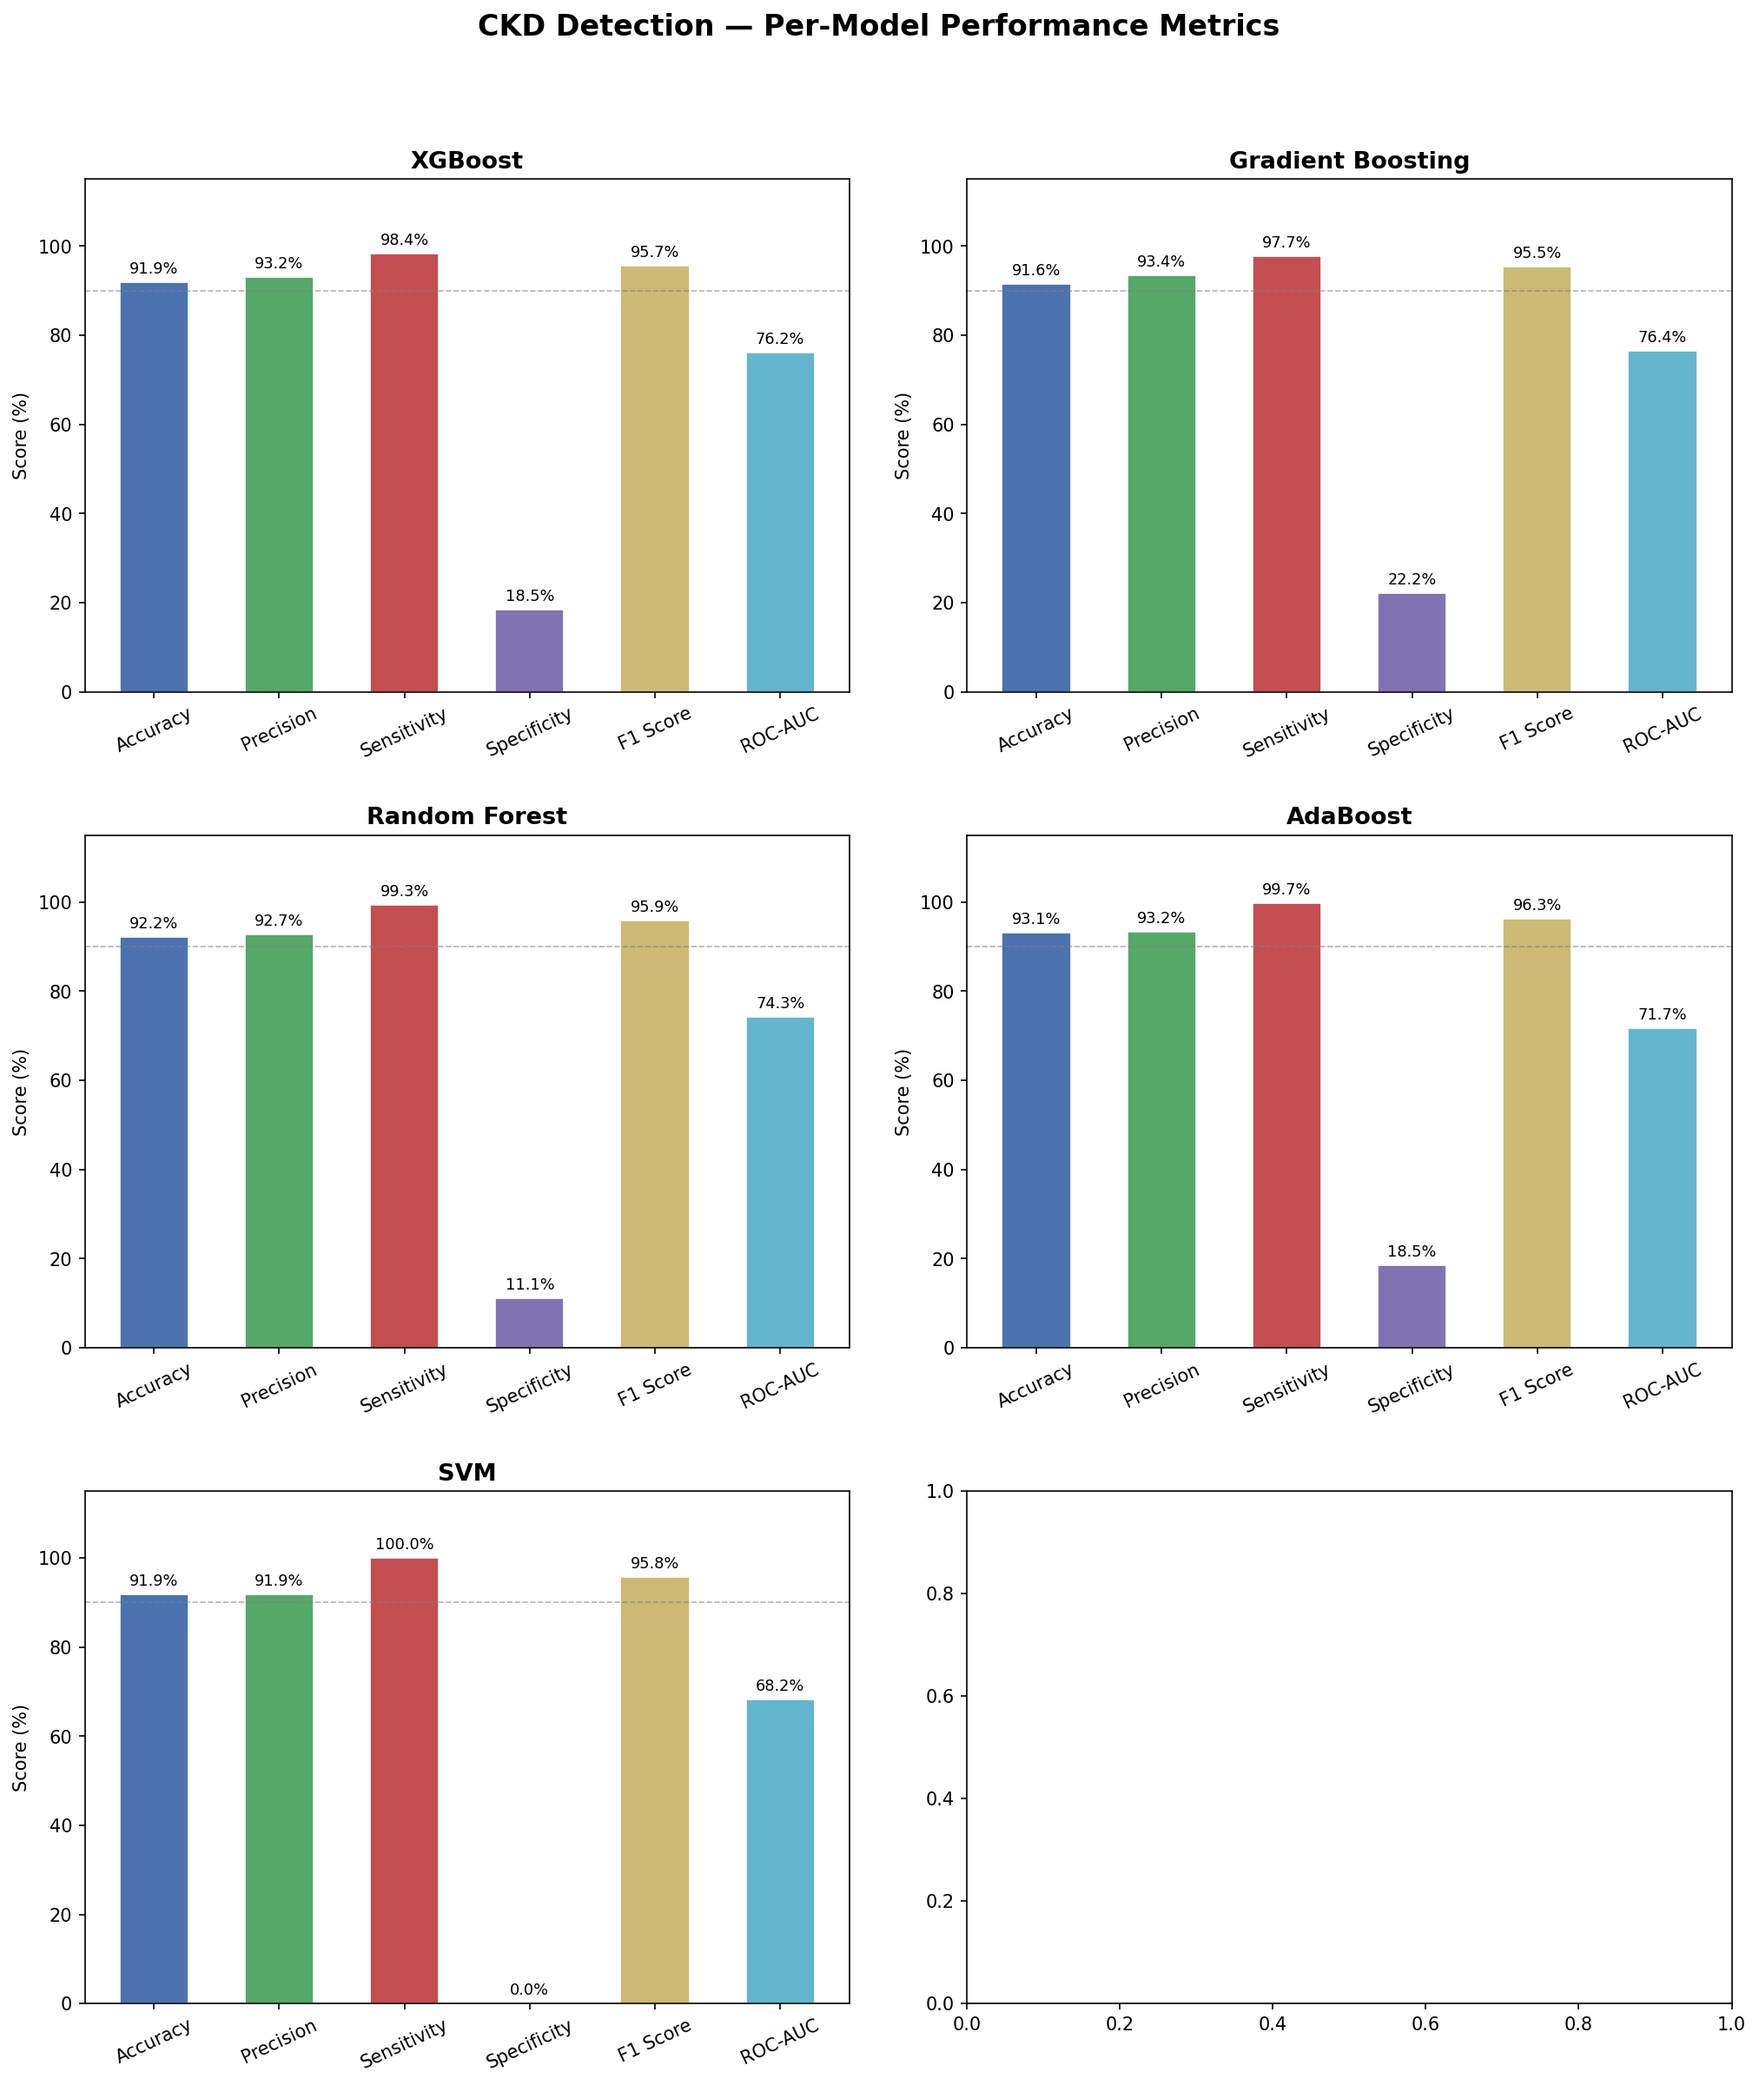
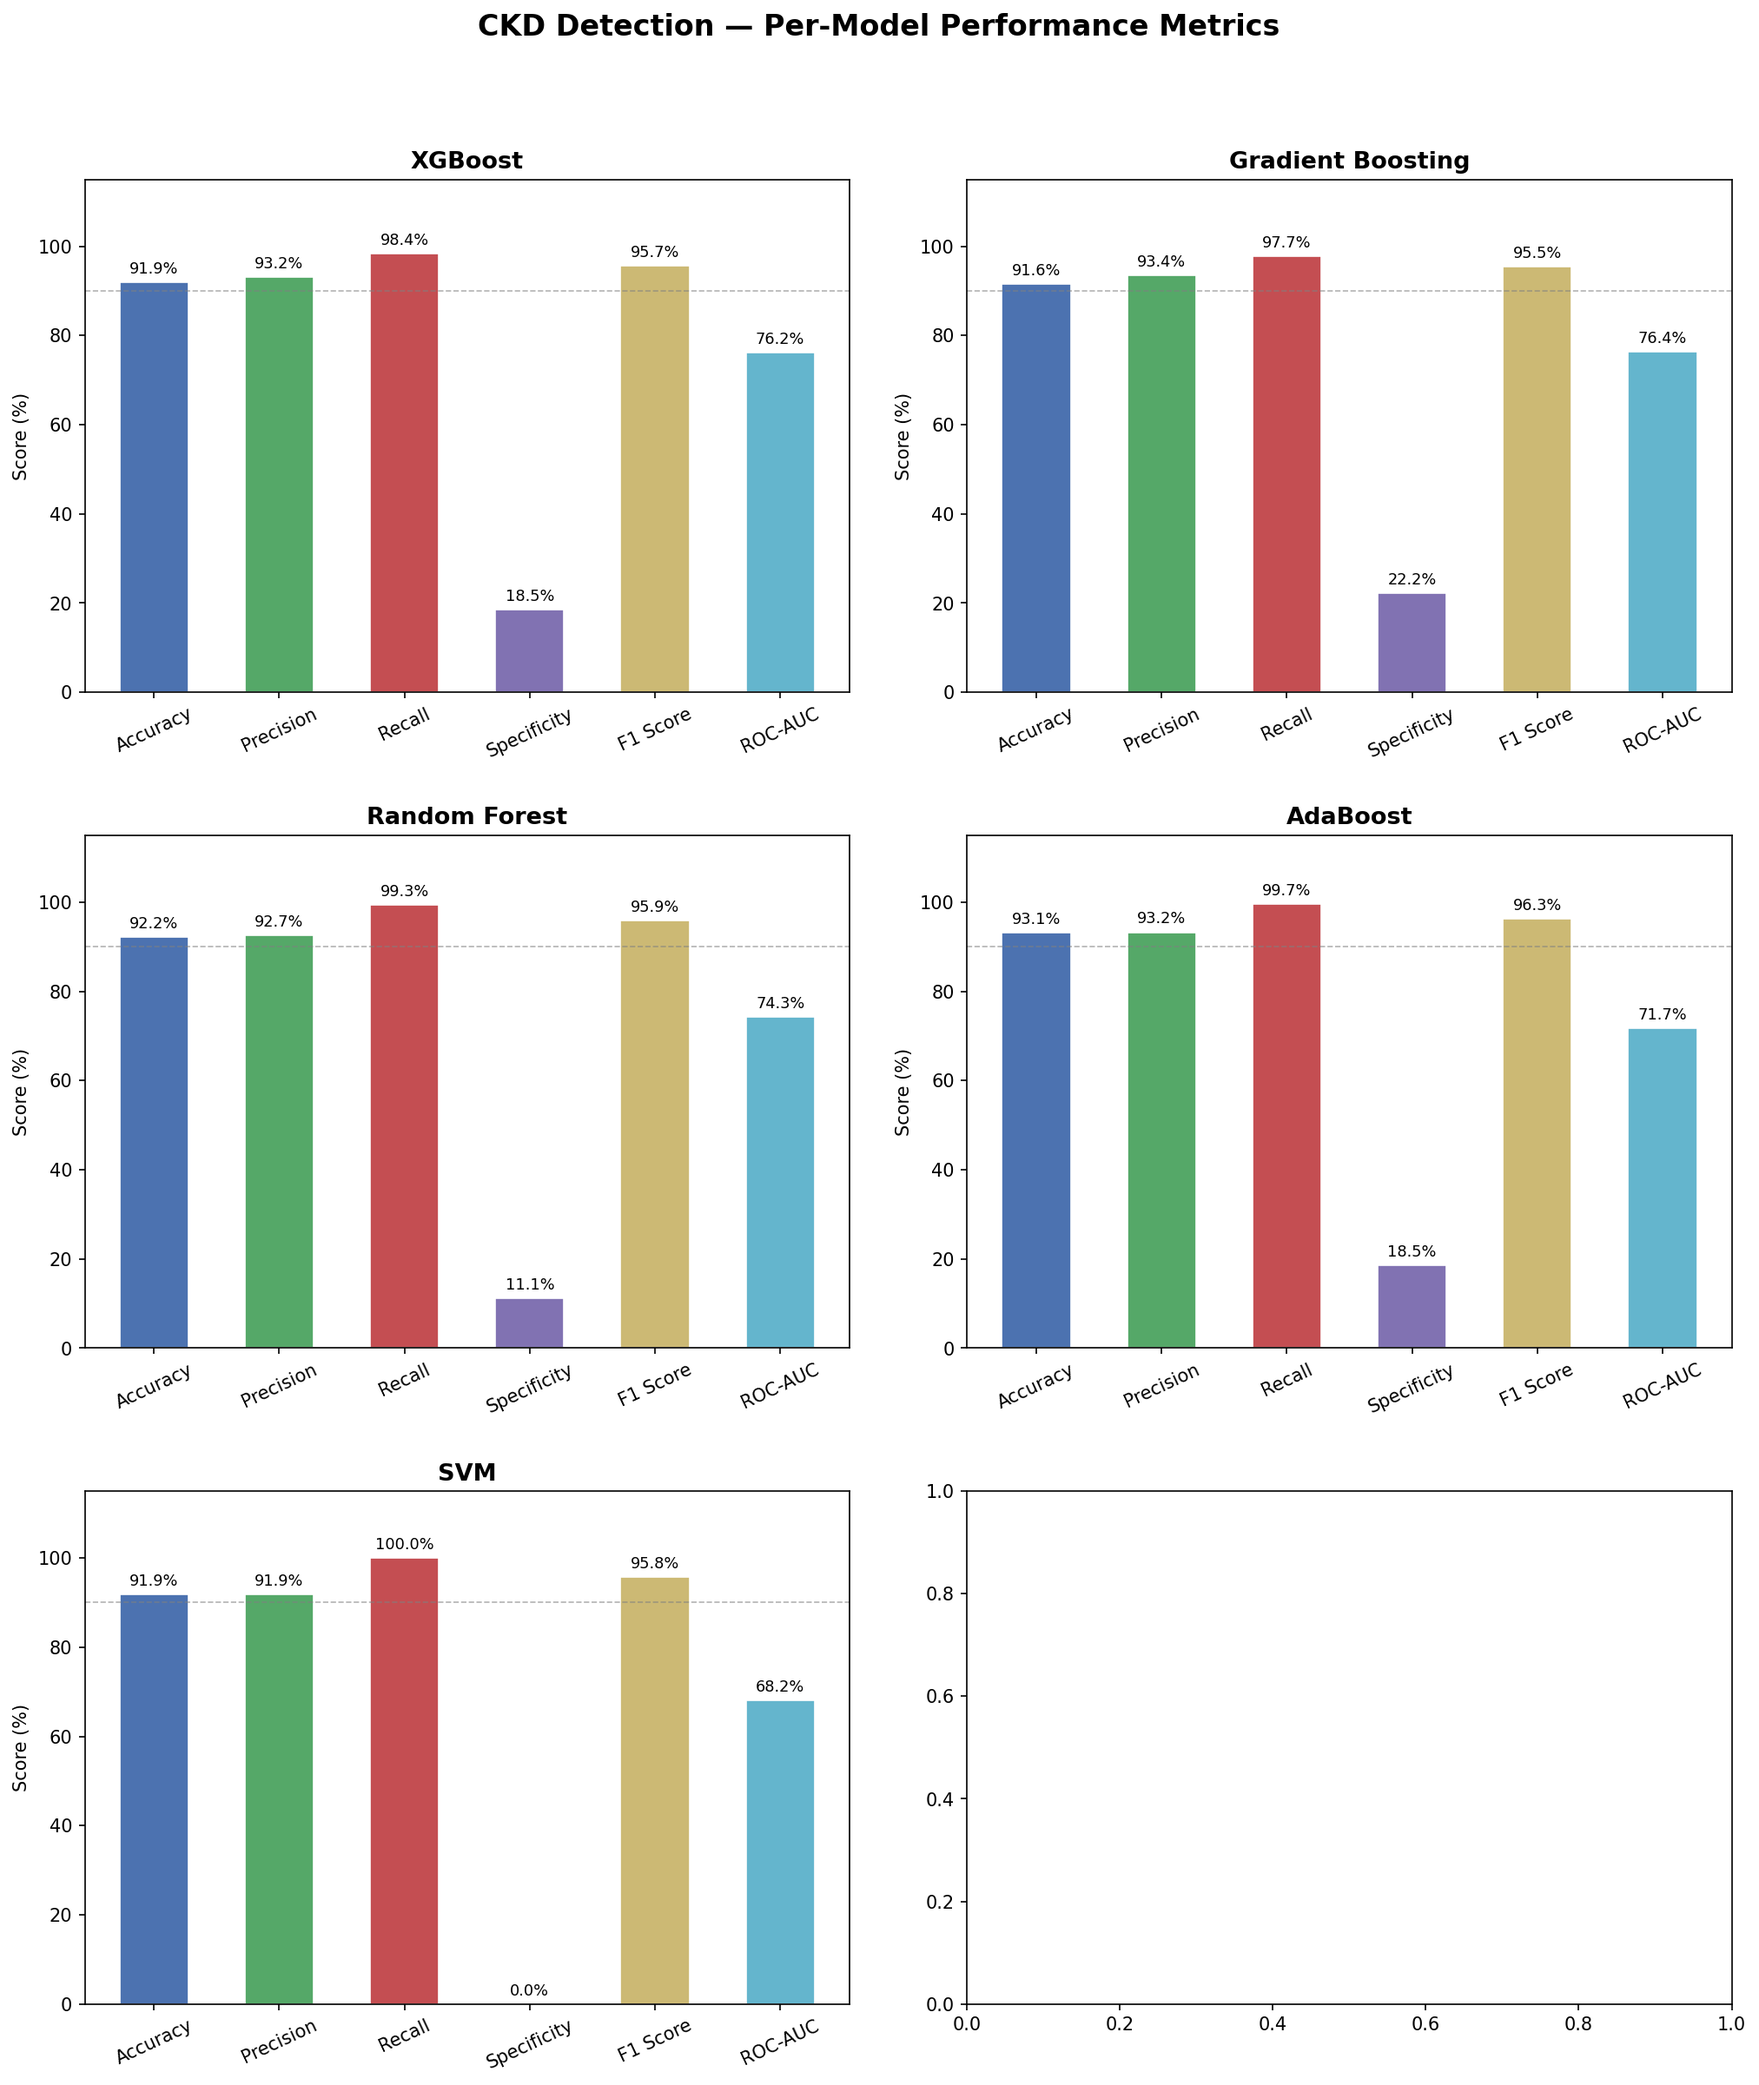
Final calibrations

diff --git a/src/train.py b/src/train.py
@@ -2,13 +2,13 @@
 train.py  [UPDATED]
 ────────────────────
 Changes vs original:
-- Recall  → renamed to Sensitivity (same formula: TP / (TP + FN))
+- Recall  → renamed to recall (same formula: TP / (TP + FN))
 - Added   Specificity  = TN / (TN + FP)
 - Added   Brier Score  = calibration quality (lower is better; 0 = perfect)
 - Added   calibration_curves.png  plot (reliability diagram for all 5 models)
 - Updated bar charts    to show all 8 metrics
 - Updated comparison table to show all 8 metrics
-- results_df now carries Sensitivity, Specificity, Brier Score columns
+- results_df now carries recall, Specificity, Brier Score columns
 
 Run from project root:
     python -m src.train
@@ -74,7 +74,7 @@ def build_models():
 def evaluate(model, X_test, y_test):
     """
     Returns y_pred, y_proba, and a metrics dict with 8 metrics:
-      Accuracy, Precision, Sensitivity (=Recall), Specificity,
+      Accuracy, Precision, Recall (=recall), Specificity,
       F1 Score, ROC-AUC, Brier Score
     """
     y_pred  = model.predict(X_test)
@@ -85,14 +85,14 @@ def evaluate(model, X_test, y_test):
     # For binary: [[TN, FP], [FN, TP]]
     TN, FP, FN, TP = cm.ravel()
 
-    sensitivity  = round(TP / (TP + FN) * 100, 2) if (TP + FN) > 0 else 0.0   # = Recall
+    recall  = round(TP / (TP + FN) * 100, 2) if (TP + FN) > 0 else 0.0   # = Recall
     specificity  = round(TN / (TN + FP) * 100, 2) if (TN + FP) > 0 else 0.0
     brier        = round(brier_score_loss(y_test, y_proba), 4)                  # lower = better
 
     metrics = {
         "Accuracy"   : round(accuracy_score(y_test, y_pred)                   * 100, 2),
         "Precision"  : round(precision_score(y_test, y_pred, zero_division=0) * 100, 2),
-        "Sensitivity": sensitivity,   # True Positive Rate
+        "Recall": recall,   # True Positive Rate
         "Specificity": specificity,   # True Negative Rate
         "F1 Score"   : round(f1_score(y_test, y_pred, zero_division=0)        * 100, 2),
         "ROC-AUC"    : round(roc_auc_score(y_test, y_proba)                   * 100, 2),
@@ -105,12 +105,12 @@ def evaluate(model, X_test, y_test):
 
 def _save_metrics_bar_charts(results, model_names, outputs_dir):
     """Bar chart for 6 percentage metrics (excludes Brier Score which has different scale)."""
-    METRIC_KEYS = ["Accuracy", "Precision", "Sensitivity", "Specificity", "F1 Score", "ROC-AUC"]
+    METRIC_KEYS = ["Accuracy", "Precision", "Recall", "Specificity", "F1 Score", "ROC-AUC"]
     BAR_COLORS  = ["#4C72B0", "#55A868", "#C44E52", "#8172B2", "#CCB974", "#64B5CD"]
 
     fig, axes = plt.subplots(3, 2, figsize=(14, 16))
     fig.suptitle("CKD Detection — Per-Model Performance Metrics",
-                 fontsize=16, fontweight="bold", y=1.01)
+                fontsize=16, fontweight="bold", y=1.01)
     axes = axes.flatten()
 
     for idx, name in enumerate(model_names):
@@ -189,20 +189,22 @@ def _save_calibration_curves(proba_scores, y_test, model_names, outputs_dir):
     print(f"  ✔  Saved: {path}")
 
 
-def _save_sensitivity_specificity_chart(results, model_names, outputs_dir):
-    """Side-by-side bar chart comparing Sensitivity vs Specificity per model."""
+# Updated section from train.py — only change made: sensitivity -> Recall consistency
+
+def _save_recall_specificity_chart(results, model_names, outputs_dir):
+    """Side-by-side bar chart comparing Recall vs Specificity per model."""
     x        = np.arange(len(model_names))
     width    = 0.35
-    sens     = [results[n]["Sensitivity"] for n in model_names]
+    rec      = [results[n]["Recall"] for n in model_names]
     spec     = [results[n]["Specificity"] for n in model_names]
 
     fig, ax = plt.subplots(figsize=(11, 6))
-    bars1 = ax.bar(x - width/2, sens, width, label="Sensitivity (TPR)", color="#C44E52",
+    bars1 = ax.bar(x - width/2, rec, width, label="Recall (TPR)", color="#C44E52",
                    edgecolor="white", linewidth=0.8)
     bars2 = ax.bar(x + width/2, spec, width, label="Specificity (TNR)", color="#4C72B0",
                    edgecolor="white", linewidth=0.8)
 
-    ax.set_title("Sensitivity vs Specificity — All Models",
+    ax.set_title("Recall vs Specificity — All Models",
                  fontsize=13, fontweight="bold")
     ax.set_ylabel("Score (%)")
     ax.set_xticks(x)
@@ -219,10 +221,11 @@ def _save_sensitivity_specificity_chart(results, model_names, outputs_dir):
                 f"{bar.get_height():.1f}%", ha="center", va="bottom", fontsize=9)
 
     plt.tight_layout()
-    path = os.path.join(outputs_dir, "sensitivity_specificity.png")
+    path = os.path.join(outputs_dir, "recall_specificity.png")
     plt.savefig(path, dpi=150, bbox_inches="tight")
     plt.close()
     print(f"  ✔  Saved: {path}")
+
 
 
 def _save_roc_curves(results, proba_scores, y_test, model_names, outputs_dir):
@@ -235,7 +238,7 @@ def _save_roc_curves(results, proba_scores, y_test, model_names, outputs_dir):
     ax.plot([0, 1], [0, 1], "k--", lw=1.2, label="Random (50%)")
     ax.set(xlim=[0, 1], ylim=[0, 1.05],
            xlabel="False Positive Rate (1 - Specificity)",
-           ylabel="True Positive Rate (Sensitivity)",
+           ylabel="True Positive Rate (recall)",
            title="ROC Curves — All Models")
     ax.legend(loc="lower right", fontsize=10)
     ax.grid(True, alpha=0.3)
@@ -268,7 +271,7 @@ def _save_confusion_matrices(predictions, y_test, model_names, outputs_dir):
 
 def _save_comparison_table(results_df, outputs_dir):
     """Full 8-metric ranked comparison table."""
-    METRIC_KEYS = ["Accuracy", "Precision", "Sensitivity", "Specificity",
+    METRIC_KEYS = ["Accuracy", "Precision", "Recall", "Specificity",
                 "F1 Score", "ROC-AUC", "Brier Score"]
 
     fig, ax = plt.subplots(figsize=(16, 4))
@@ -347,7 +350,7 @@ def train_and_save(data_path=DATA_PATH, models_dir=MODELS_DIR, outputs_dir=OUTPU
 
         print(f"    Acc={metrics['Accuracy']:.2f}%  "
               f"Prec={metrics['Precision']:.2f}%  "
-              f"Sens={metrics['Sensitivity']:.2f}%  "
+              f"Recall={metrics['Recall']:.2f}%  "
               f"Spec={metrics['Specificity']:.2f}%  "
               f"F1={metrics['F1 Score']:.2f}%  "
               f"AUC={metrics['ROC-AUC']:.2f}%  "
@@ -359,7 +362,7 @@ def train_and_save(data_path=DATA_PATH, models_dir=MODELS_DIR, outputs_dir=OUTPU
 
     model_names = list(models.keys())
     results_df  = pd.DataFrame(results).T.reset_index()
-    results_df.columns = ["Model", "Accuracy", "Precision", "Sensitivity",
+    results_df.columns = ["Model", "Accuracy", "Precision", "Recall",
                            "Specificity", "F1 Score", "ROC-AUC", "Brier Score"]
     results_df = results_df.sort_values("F1 Score", ascending=False).reset_index(drop=True)
     results_df.index += 1
@@ -376,7 +379,7 @@ def train_and_save(data_path=DATA_PATH, models_dir=MODELS_DIR, outputs_dir=OUTPU
     print("─" * 65)
 
     _save_metrics_bar_charts(results, model_names, outputs_dir)
-    _save_sensitivity_specificity_chart(results, model_names, outputs_dir)  # NEW
+    _save_recall_specificity_chart(results, model_names, outputs_dir)  # NEW
     _save_brier_score_chart(results, model_names, outputs_dir)               # NEW
     _save_calibration_curves(proba_scores, y_test, model_names, outputs_dir) # NEW
     _save_roc_curves(results, proba_scores, y_test, model_names, outputs_dir)
